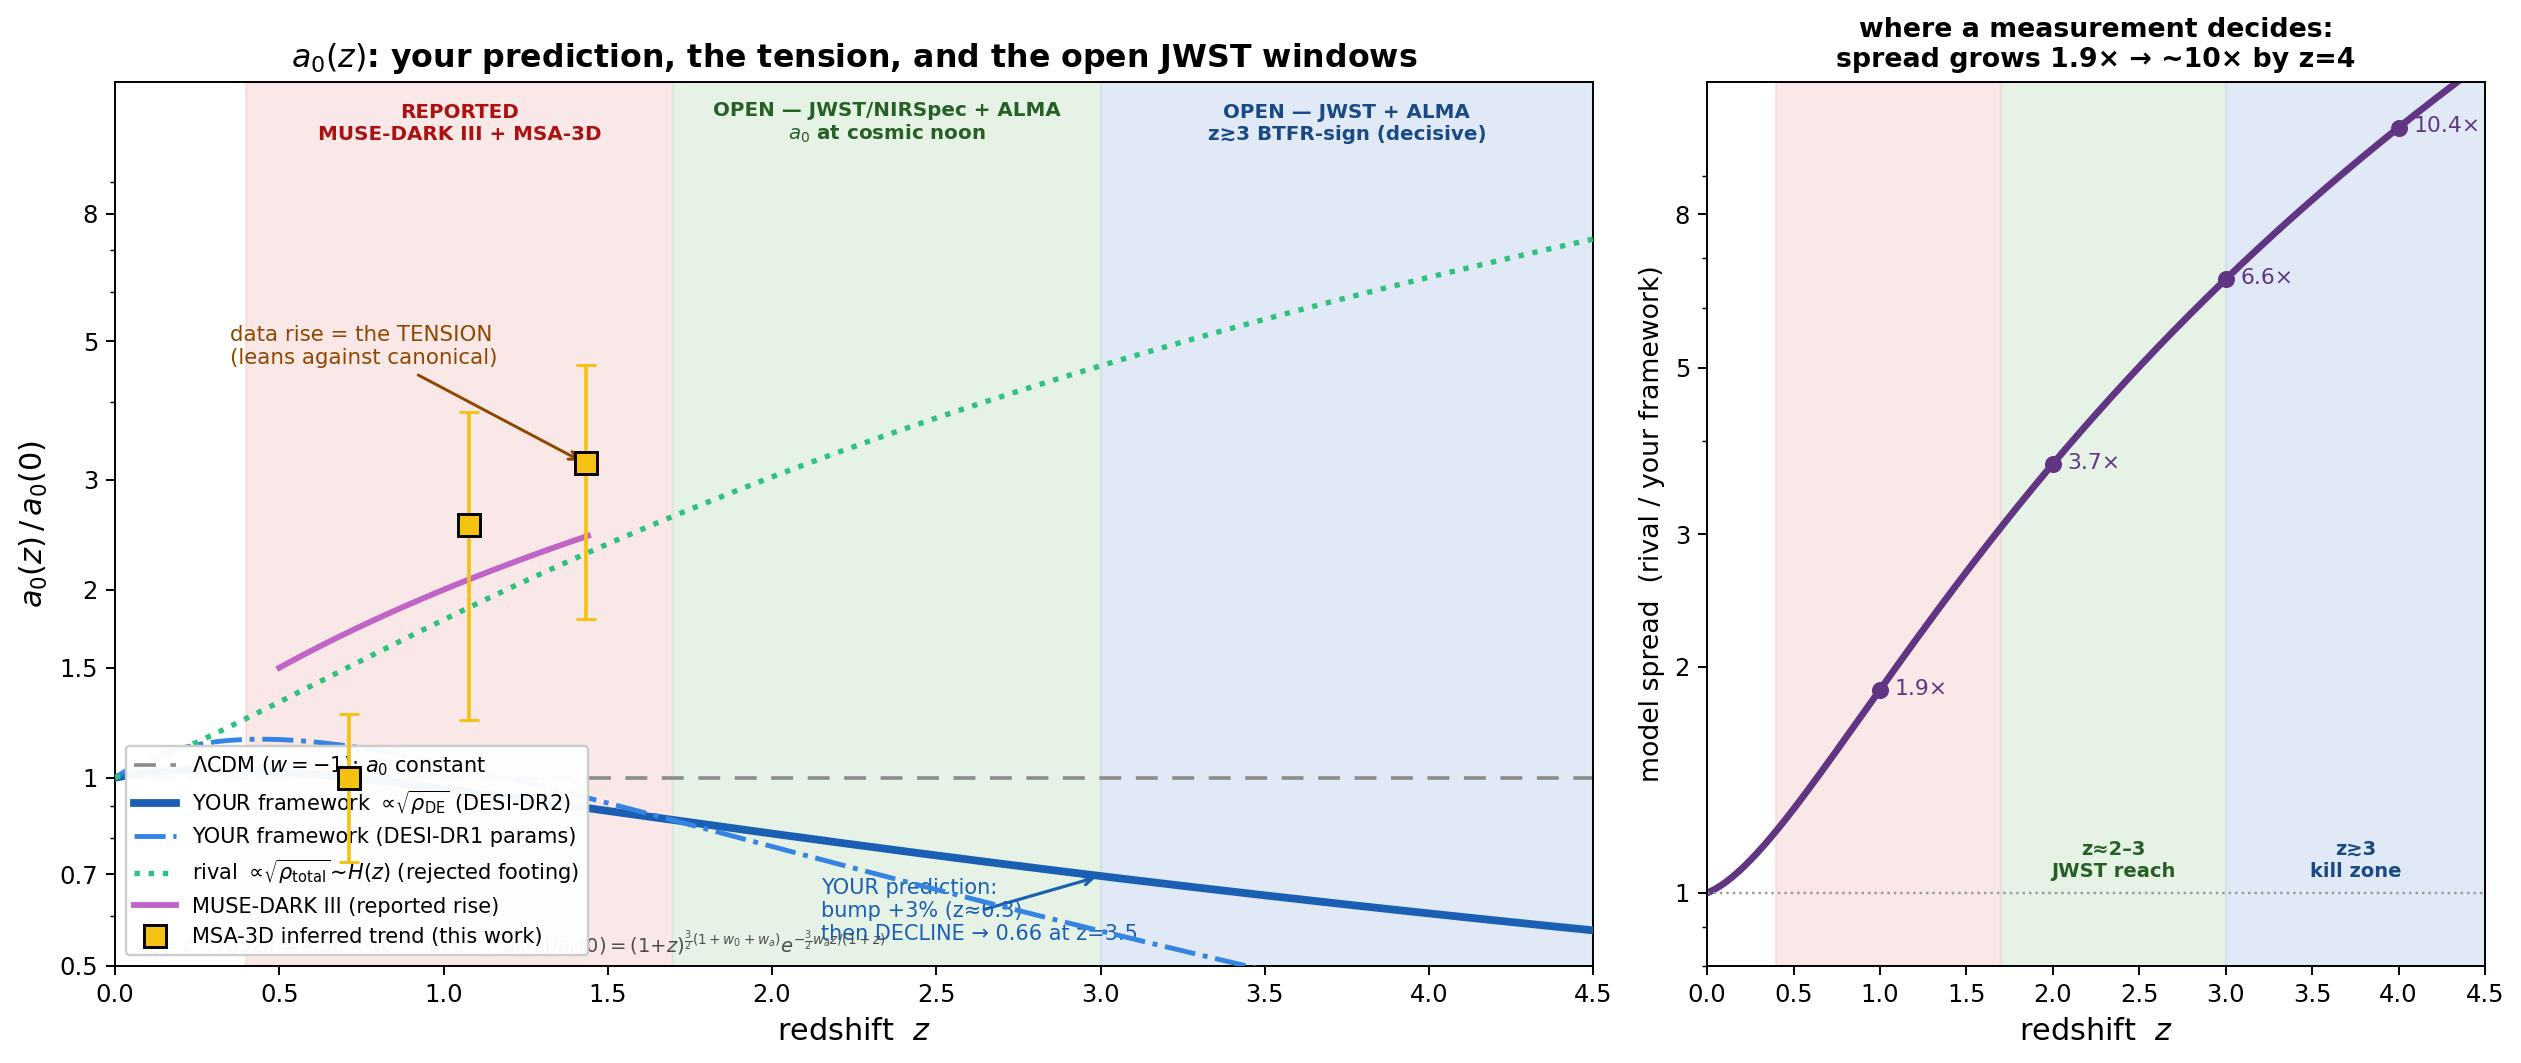
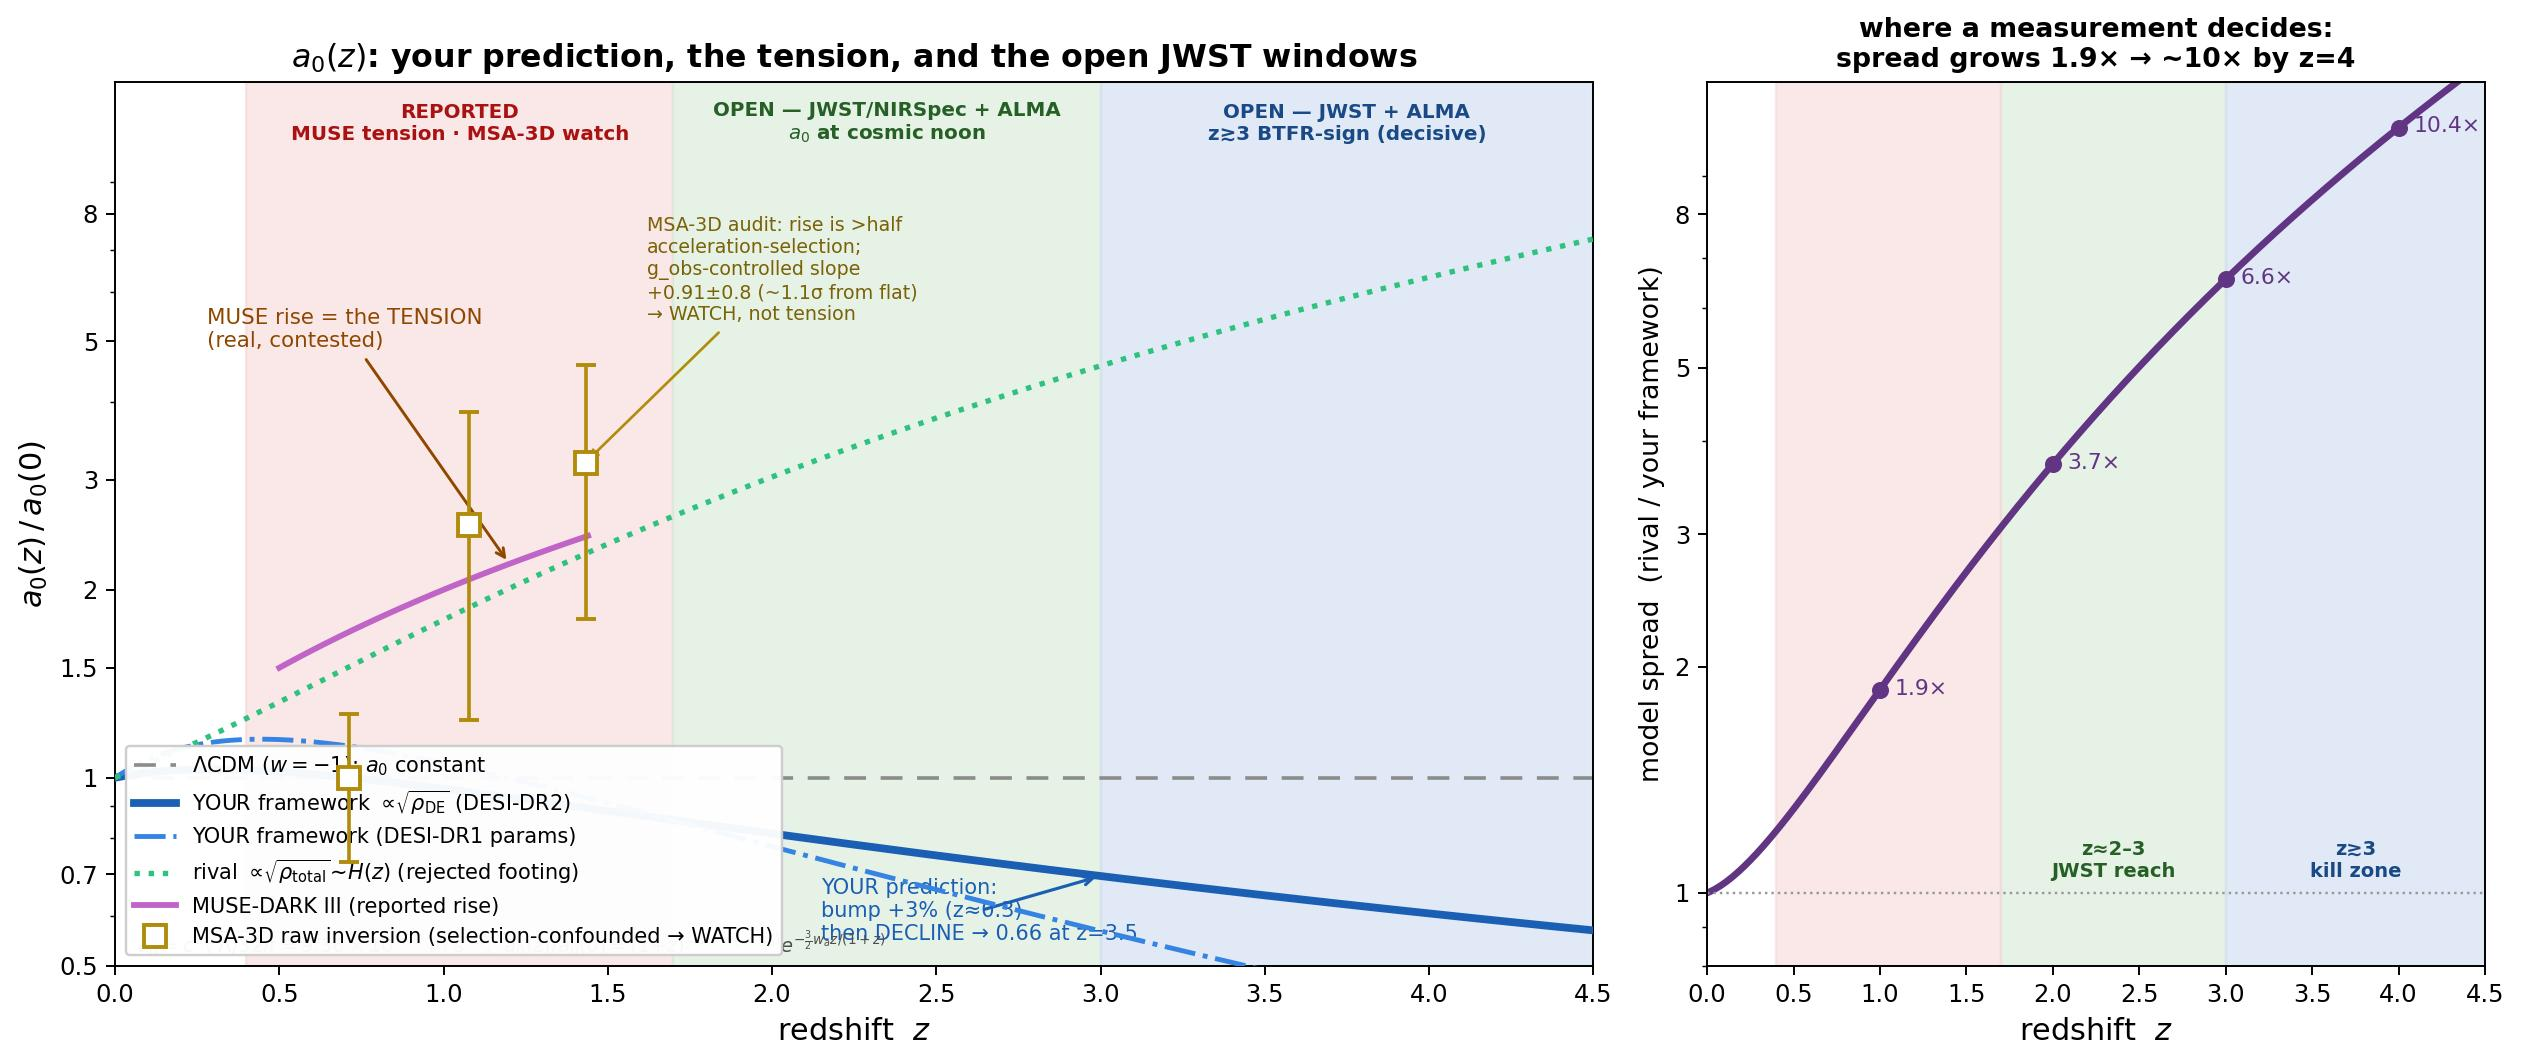
Roadmap figure updated with the audit correction: MSA-3D = WATCH (hollow markers), MUSE = the tension
MSA-3D points now hollow + relabeled "raw inversion (selection-confounded -> WATCH)" with
the audit annotation (g_obs-controlled slope +0.91+-0.8, ~1.1 sigma from flat); the
TENSION arrow now points at MUSE-DARK III only. Windows/spread panel unchanged.

diff --git a/real_research/a0z_jwst_roadmap.py b/real_research/a0z_jwst_roadmap.py
@@ -42,7 +42,7 @@ fig,(ax,axr)=plt.subplots(1,2,figsize=(14.5,6.2),gridspec_kw={'width_ratios':[1.
 ax.axvspan(0.4,1.7,color='#f6d5d5',alpha=0.55,zorder=0)
 ax.axvspan(1.7,3.0,color='#d8ead8',alpha=0.6,zorder=0)
 ax.axvspan(3.0,4.5,color='#d3e0f2',alpha=0.7,zorder=0)
-ax.text(1.05,10.5,'REPORTED\nMUSE-DARK III + MSA-3D',ha='center',fontsize=8.2,color='#a11',weight='bold')
+ax.text(1.05,10.5,'REPORTED\nMUSE tension · MSA-3D watch',ha='center',fontsize=8.2,color='#a11',weight='bold')
 ax.text(2.35,10.5,'OPEN — JWST/NIRSpec + ALMA\n$a_0$ at cosmic noon',ha='center',fontsize=8.2,color='#276027',weight='bold')
 ax.text(3.75,10.5,'OPEN — JWST + ALMA\nz≳3 BTFR-sign (decisive)',ha='center',fontsize=8.2,color='#1a4a86',weight='bold')
 
@@ -58,14 +58,17 @@ ax.plot(z,Ez(z),color='#2ec27e',lw=2.2,ls=':',zorder=5,
 # ---- data ----
 zm=np.linspace(0.5,1.44,40)
 ax.plot(zm,1+zm,color='#c064c7',lw=2.4,zorder=6,label='MUSE-DARK III (reported rise)')
-ax.errorbar(bz,bmN,yerr=beN,fmt='s',ms=9,color='#f5c211',mec='k',mew=1.2,capsize=4,zorder=7,
-            label='MSA-3D inferred trend (this work)')
+ax.errorbar(bz,bmN,yerr=beN,fmt='s',ms=9,mfc='white',color='#b08c0a',mec='#b08c0a',mew=1.6,
+            capsize=4,zorder=7,label='MSA-3D raw inversion (selection-confounded → WATCH)')
 
 ax.annotate('YOUR prediction:\nbump +3% (z≈0.3)\nthen DECLINE → 0.66 at z=3.5',
             xy=(3.0,canon(3.0,-0.83,-0.75)),xytext=(2.15,0.55),fontsize=8.6,color='#1a5fb4',
             arrowprops=dict(arrowstyle='->',color='#1a5fb4',lw=1.3))
-ax.annotate('data rise = the TENSION\n(leans against canonical)',xy=(1.43,3.19),xytext=(0.35,4.6),
+ax.annotate('MUSE rise = the TENSION\n(real, contested)',xy=(1.2,2.2),xytext=(0.28,4.9),
             fontsize=8.8,color='#8f4700',arrowprops=dict(arrowstyle='->',color='#8f4700',lw=1.2))
+ax.annotate('MSA-3D audit: rise is >half\nacceleration-selection;\ng_obs-controlled slope\n+0.91±0.8 (~1.1σ from flat)\n→ WATCH, not tension',
+            xy=(1.43,3.19),xytext=(1.62,5.4),fontsize=7.8,color='#7a6207',
+            arrowprops=dict(arrowstyle='->',color='#b08c0a',lw=1.1))
 ax.set_yscale('log'); ax.set_ylim(0.5,13); ax.set_xlim(0,4.5)
 ax.set_yticks([0.5,0.7,1,1.5,2,3,5,8]); ax.set_yticklabels(['0.5','0.7','1','1.5','2','3','5','8'])
 ax.set_xlabel('redshift  $z$',fontsize=12.5); ax.set_ylabel(r'$a_0(z)\,/\,a_0(0)$',fontsize=12.5)
